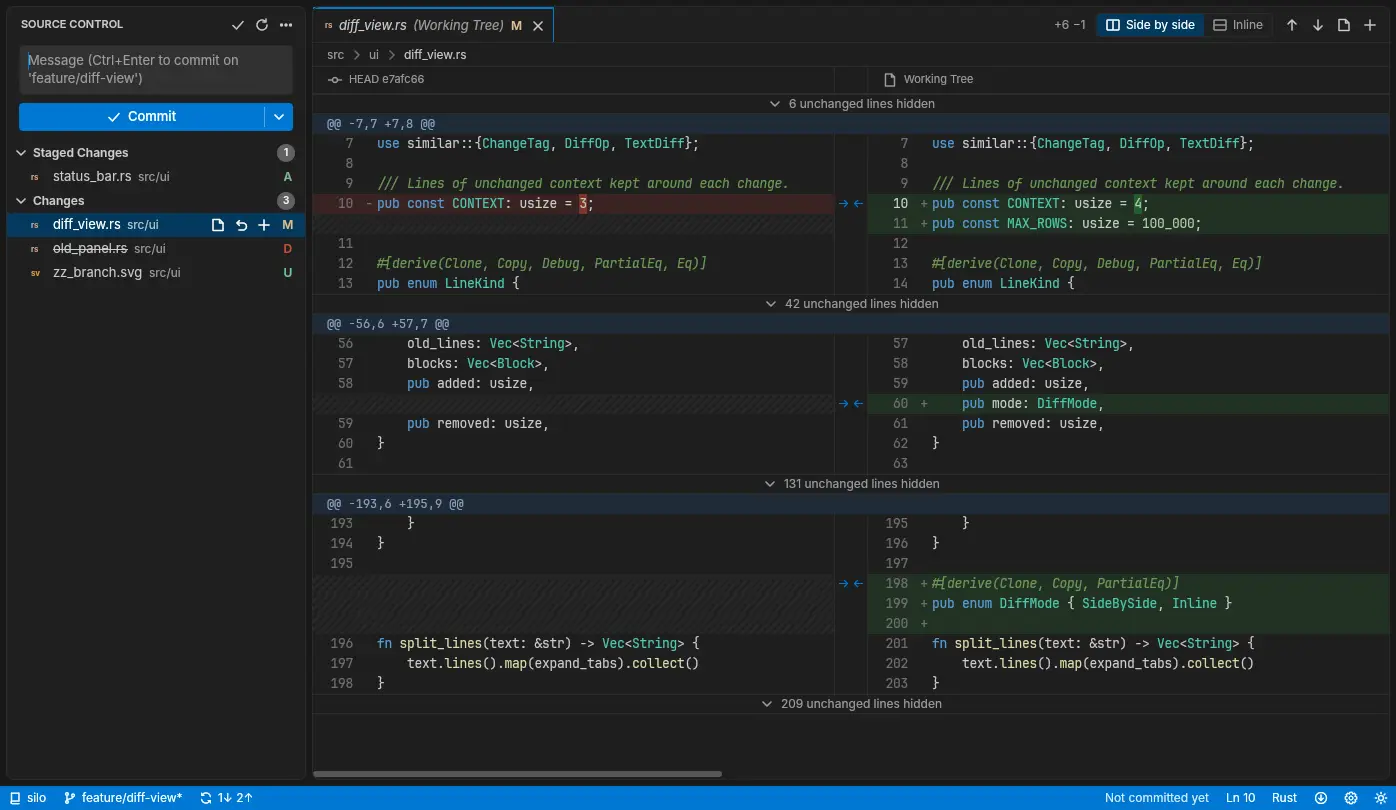
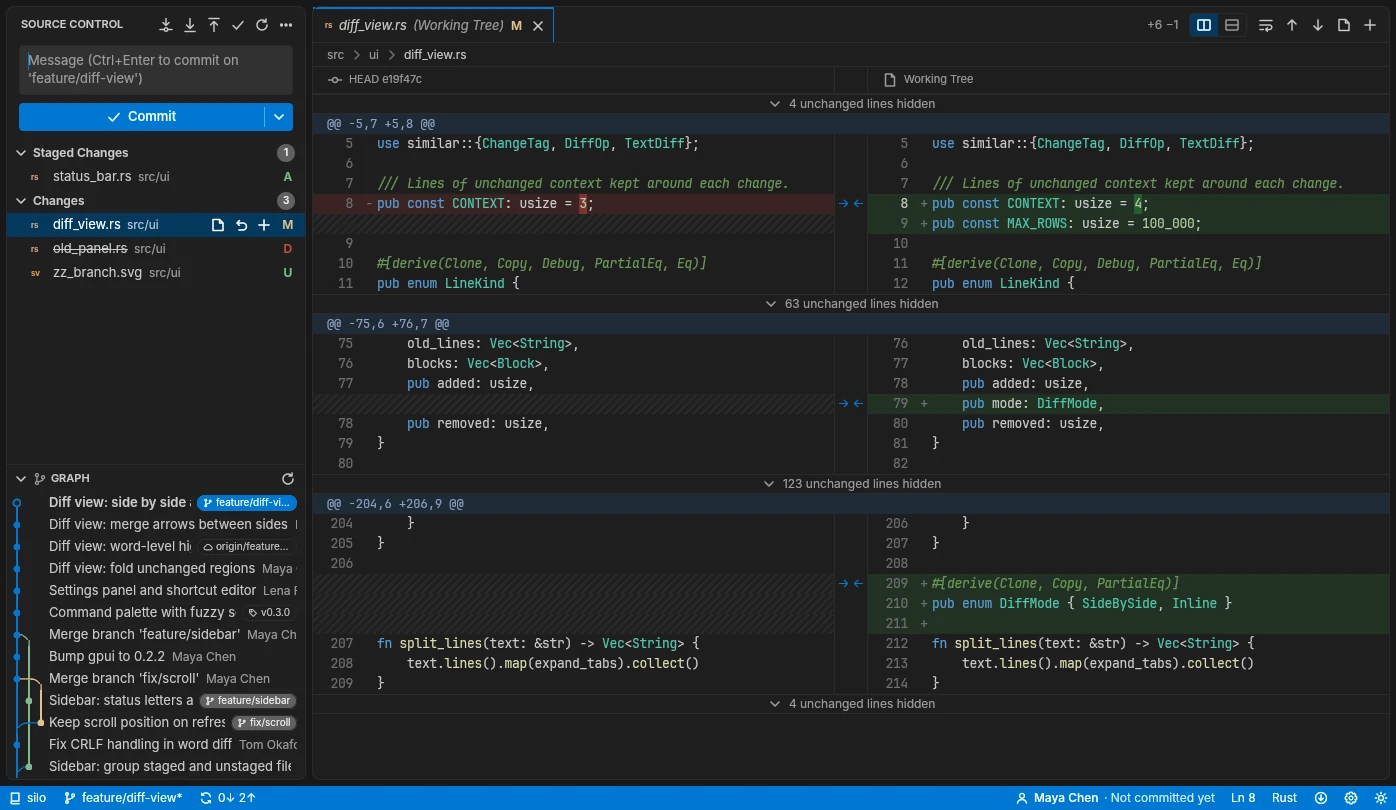
Updating website image

diff --git a/docs/index.html b/docs/index.html
@@ -110,7 +110,7 @@
   </header>
 
   <div class="wrap shot">
-    <img class="light" src="screenshot-light.webp" alt="Drift showing a side-by-side diff with staged and unstaged changes" width="1396" height="810">
+    <img class="light" src="screenshot-light.webp" alt="Drift showing a side-by-side diff, staged and unstaged changes, and the history graph" width="1396" height="810">
     <img class="dark" src="screenshot-dark.webp" alt="Drift in dark mode" width="1396" height="810" loading="lazy">
   </div>
 
